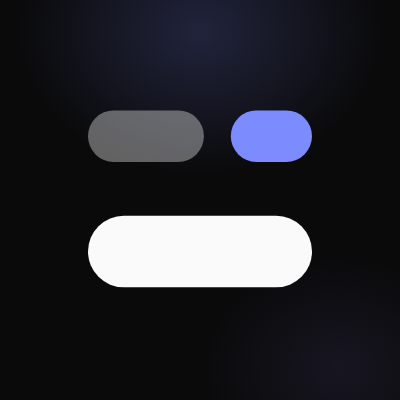
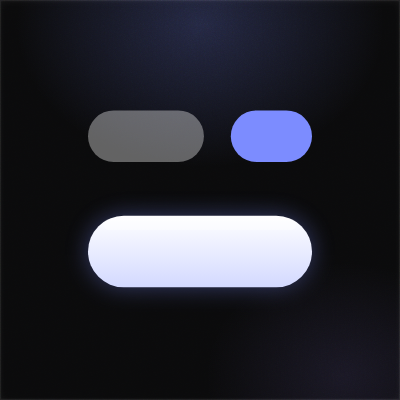
Rework the X assets against the site's own depth recipe
The first pass used only the radial glow, which left the mark sitting on
a flat field — it read as a wireframe rather than a finished asset. These
use all three layers the design system actually defines: glow, SVG
turbulence grain at 34% overlay, and a hairline inset rim.

The mark now takes light from above, matching the direction of the panel
shadows on the site: a white-to-periwinkle gradient on the conclusion
pill with a one-unit specular along its top edge, over a soft indigo
bloom. The bloom is at 38%, chosen against 55% and against no bloom at
all — at 55% the halo reads as a filter effect instead of as material.

Two corrections to the previous export. The avatar is now a full opaque
square: X crops the circle itself, and the transparent corners the old
file carried would show as a box anywhere it is displayed uncropped. And
the header's ticker labels were rendering in a synthesised oblique,
because the bar segments are <i> elements and the <b> inside inherited
italic — with no italic face embedded, the browser slanted the upright
one. Both caught by inspecting computed styles rather than by eye.

x-header.png now carries the real .window frame showing a premise and the
book it produces, so the banner demonstrates the product rather than
describing it. The typographic version is kept as an alternative.

Claude-Session: https://claude.ai/code/session_013haw1v4FXDRu7kh5aZW8we

diff --git a/brand/README.md b/brand/README.md
@@ -38,18 +38,39 @@ cropped to a **circle** and shown as small as 24px on replies.
 
 | File | Size | Use |
 |---|---|---|
-| `x-avatar.png` | 1000×1000 | Profile picture. Upload this one — X downscales, and starting from more pixels keeps the edges clean. |
-| `x-avatar-400.png` | 400×400 | X's stated recommendation, if you would rather match it exactly. |
-| `x-header.png` | 1500×500 | Header banner. |
+| `x-avatar.png` | 1000×1000 | Profile picture. Upload this one. |
+| `x-avatar-400.png` | 400×400 | X's stated recommendation, if you prefer to match it exactly. |
+| `x-avatar-flat.png` | 1000×1000 | Same, without the bloom. The restrained alternative. |
+| `x-header.png` | 3000×1000 | Header banner. Shows the product working. |
+| `x-header-statement.png` | 3000×1000 | Header alternative: the tagline, typographically. |
 
-Two decisions follow from the circular crop. The background bleeds to every edge,
-so nothing is lost when the corners are cut — a rounded-tile icon would lose its
-corners here. And the mark's ink spans 56% of the canvas rather than the ~49% it
-occupies in `igitur-icon.svg`, because at 24px the smaller proportion stops
-resolving.
+### How they are built
 
-The header keeps its content on the right. X overlays the profile picture across
-the bottom-left of the banner, and anything placed there is covered.
+Depth follows the site's own three-layer recipe rather than being invented for
+these files: a radial glow, then SVG turbulence grain at 34% `overlay`, then a
+hairline inset rim. The first version used only the glow, which is why it read
+as a wireframe on a flat field.
+
+The conclusion pill carries a white-to-periwinkle gradient with a one-unit
+specular along its top edge, so light falls from above — the same direction as
+the panel shadows on the site. Beneath it sits a soft indigo bloom at 38%
+opacity. That number was tuned against the alternatives: at 55% the halo starts
+reading as a filter effect rather than as material.
+
+Two things follow from the circular crop. The background bleeds to every edge,
+so nothing is lost when the corners are cut, and the file is a full opaque
+square — X does the cropping, and transparent corners would show as a box
+anywhere the image is displayed uncropped. The mark's ink spans 56% of the
+canvas rather than the ~49% it occupies in `igitur-icon.svg`, because below that
+it stops resolving at reply size.
+
+The header keeps its content clear of the bottom-left, where X overlays the
+profile picture. `x-header.png` puts the real `.window` frame there — the site's
+signature component — showing a premise and the book it produces, so the banner
+demonstrates the product instead of describing it.
+
+Headers export at 3000×1000 rather than X's stated 1500×500: the ratio is the
+same, and the extra pixels survive downscaling on high-density screens.
 
 ## Earlier directions
 
